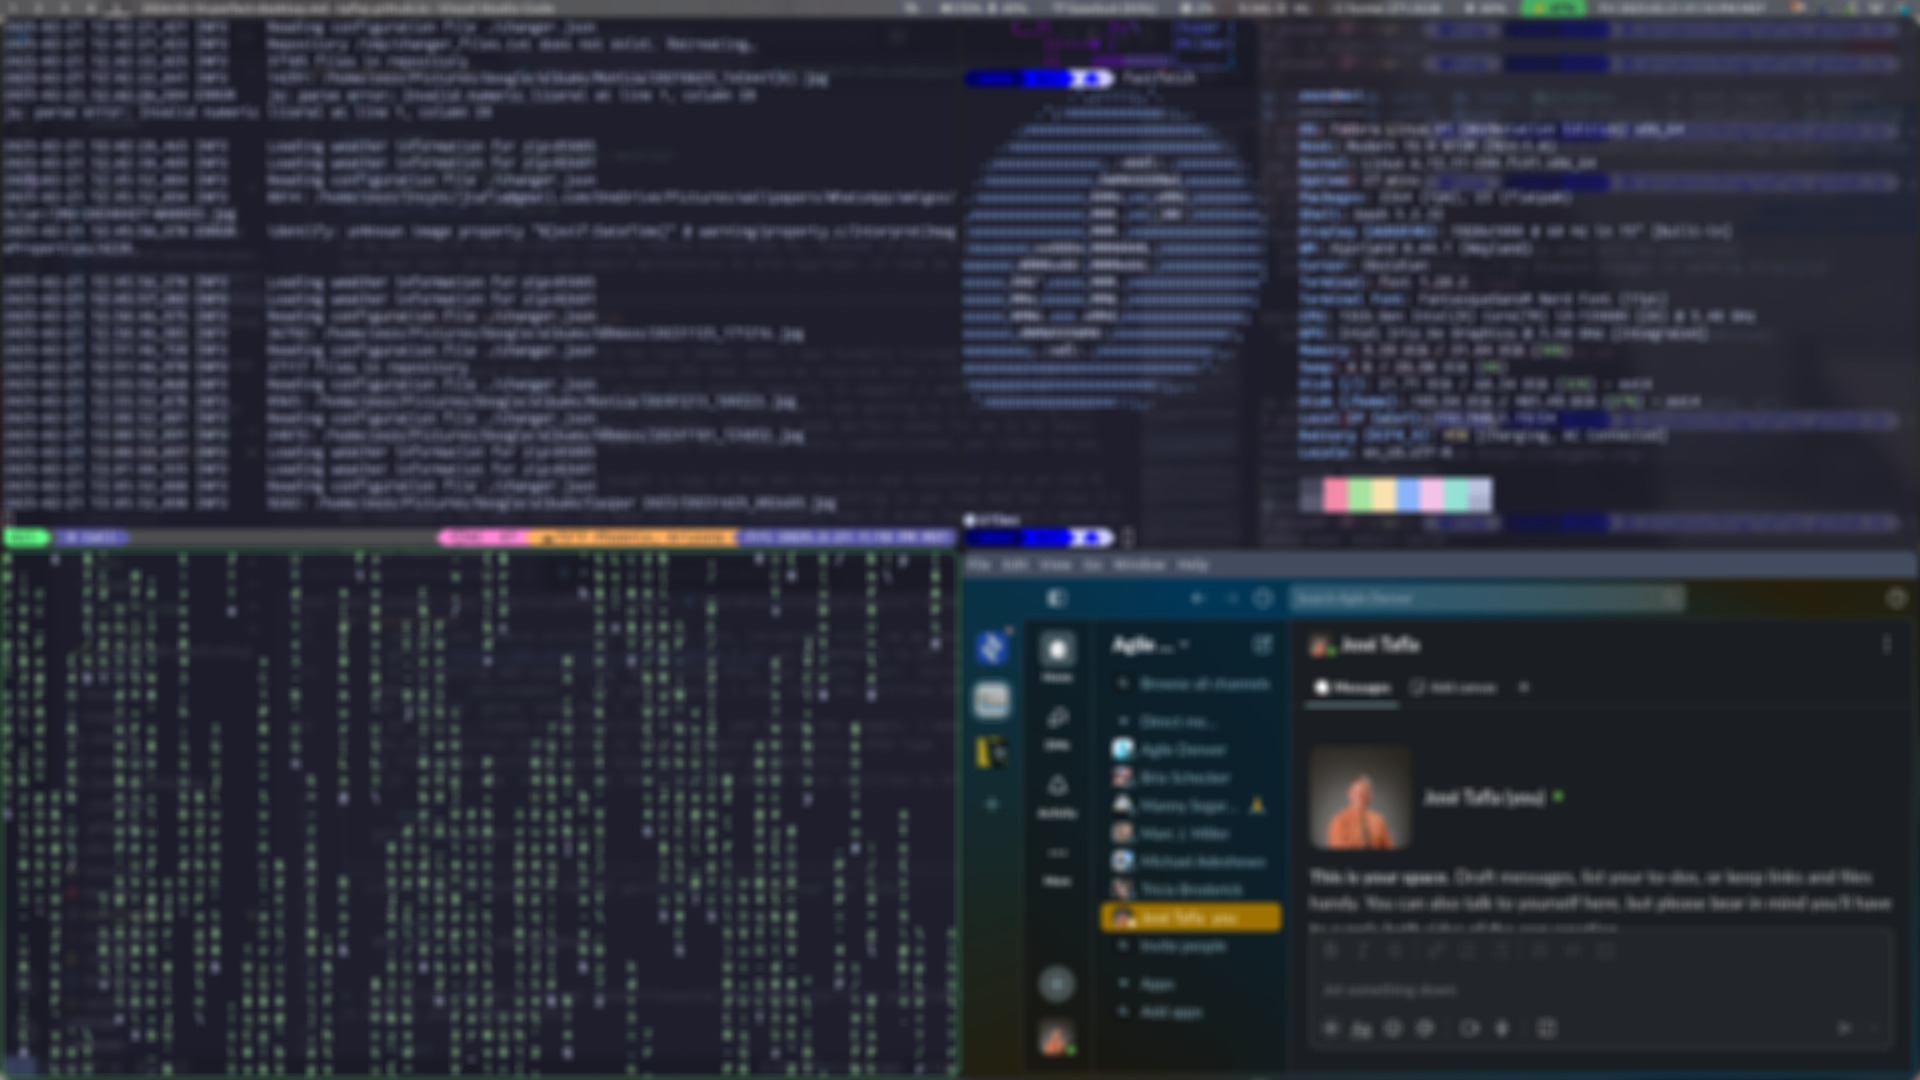
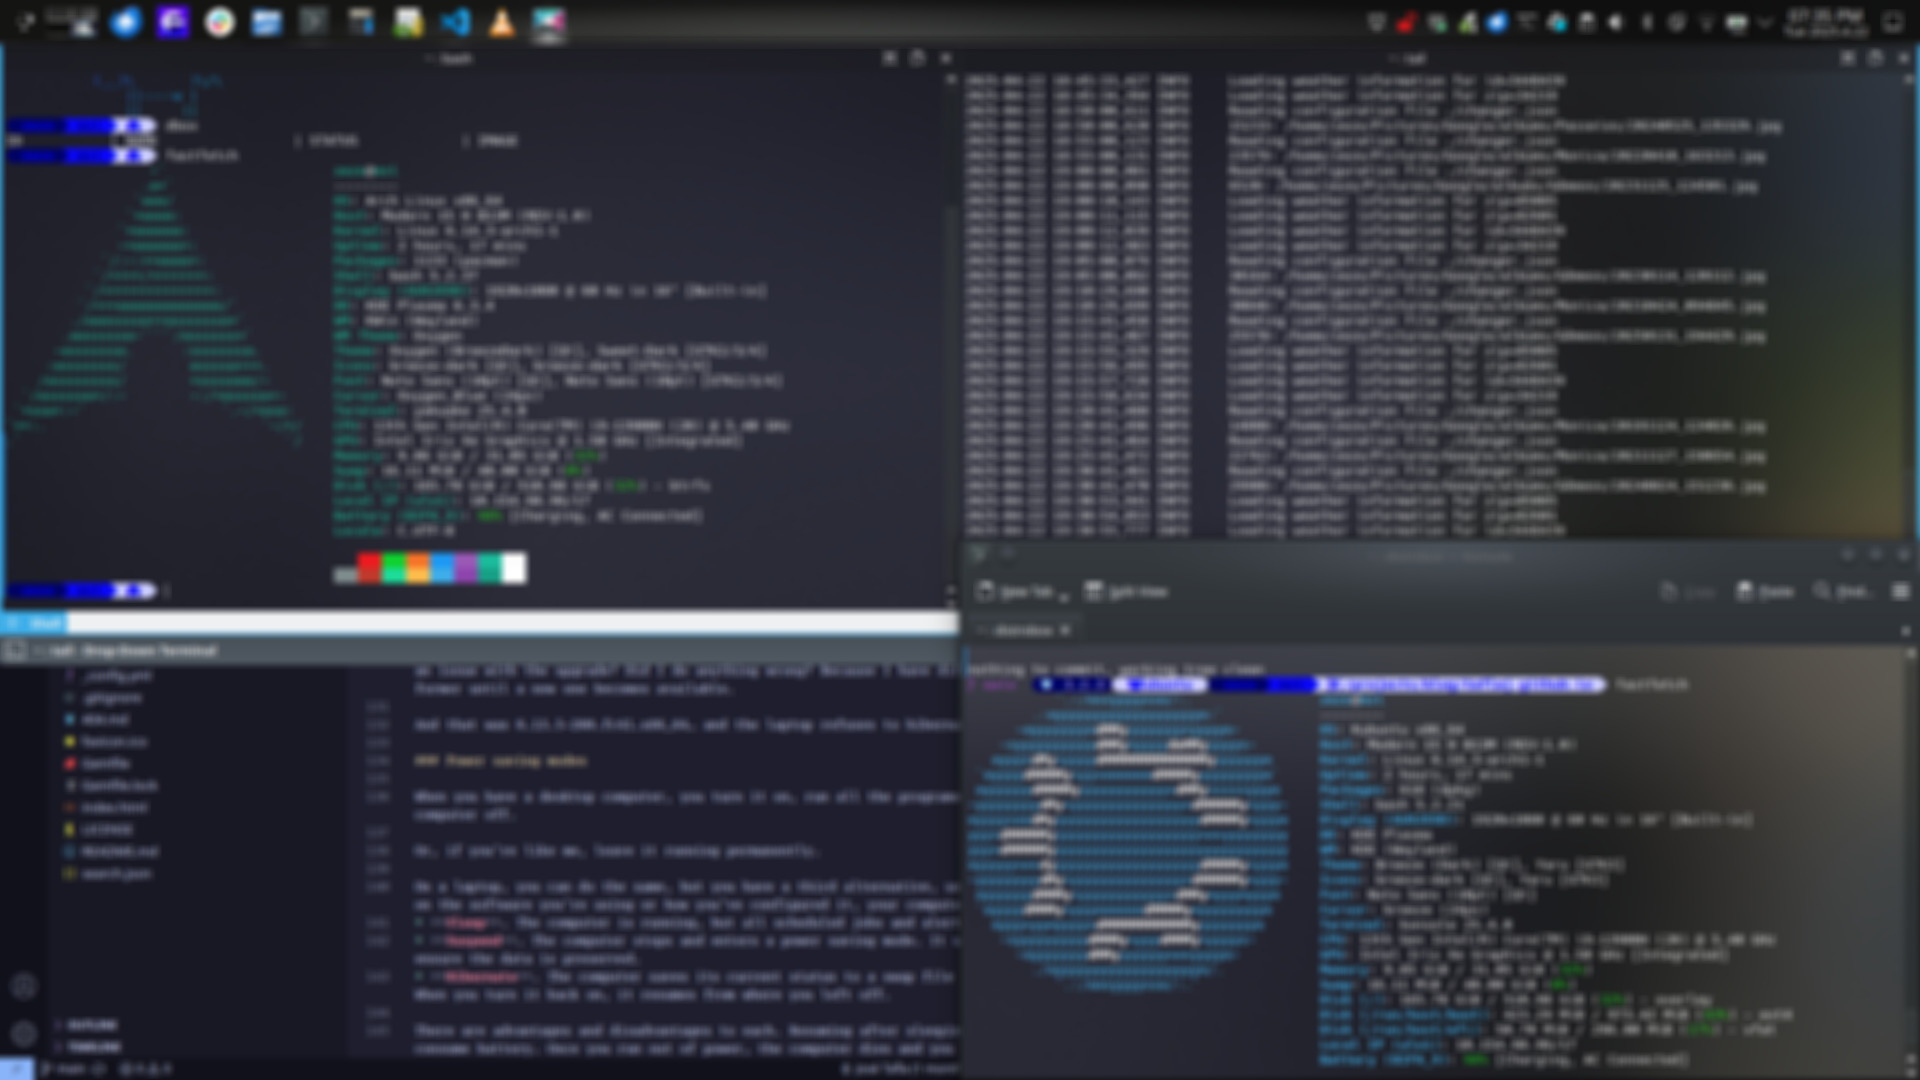
Arch (by the way), fixes, and improvements.

diff --git a/_posts/2024-05-10-perfect-desktop.md b/_posts/2024-05-10-perfect-desktop.md
@@ -3,12 +3,12 @@ layout: post
 title:  "The quest for the perfect desktop"
 categories: technology linux
 date: 2024-05-10
-last_modified_at: 2025-03-04
+last_modified_at: 2025-04-23
 excerpt_separator: <!--more-->
 ---
-![My Perfect Desktop](/assets/images/desktop.jpg)
+[![My Perfect Desktop](/assets/images/desktop.jpg)](/perfect-desktop/)
 
-On my desktop PC I'm currently running Fedora Silverblue 41, rebased to Bluefin-DX. On my laptop I have dual boot: Windows 11 and Fedora Workstation 41 with Hyprland. It took me significant time and effort to come here, though.
+On my desktop PC I'm currently running Arch Linux with [MATE Desktop][mate]. On my laptop I have dual boot: Windows 11 and Arch Linux alternating between [KDE Plasma][kde] and [Hyprland][hypr]. It took me significant time and effort to come here, though.
 <!--more-->
 
 ## A very long history in the making
@@ -45,13 +45,13 @@ Red Hat Linux was no more. I could either choose Red Hat Enterprise Linux or [Fe
 
 [Fedora][fedora] was a great fit for me! There were frequent updates, but not overwhelmingly so. In fact, it was the perfect balance between advancements and stability.
 
-When [Red Hat/IBM built a paywall around CentOS Stream][centos], sending shockwaves across the open source industry, I felt inclined to walk away from [Fedora][fedora] and revisit other truly community supported distros. My first stop was with the venerable [Debian][debian]. Version 12 had just been released, with a significant number of improvements, and it looked very appealing to me. By that time, I was already excited, once again, to use GNOME, and so [Debian][debian] became my daily driver. It's heavily stable, which could also mean archaic, and some tools did seem a little outdated. Using [distrobox][dbox], I was able to overcome plenty of limitations.
+When [Red Hat/IBM built a paywall around CentOS Stream][centos], sending shockwaves across the open source industry, I felt inclined to walk away from [Fedora][fedora] and revisit other truly community supported distros. My first stop was with the venerable [Debian][debian]. Version 12 had just been released, with a significant number of improvements, and it looked very appealing to me. By that time, I was already excited, once again, to use GNOME, and so [Debian][debian] became my daily driver. It's heavily stable, which could also mean archaic, and some tools did seem a little outdated. Using [Distrobox][dbox], I was able to overcome plenty of limitations.
 
-The problem with [Debian][debian] is that **I am a bad user**; the same applies to most other distros. Even though [distrobox][dbox] allowed me to safely bypass system limitations by installing programs on a containerized environment, sometimes it just felt *easier* to install on the root system. Over time, there were so many broken dependencies on the system that updates and new installations became rather painful. Backup tools such as [Snapper][snapper] and [Timeshift][timeshift] are fantastic for restoring configurations, but only for a short period of time; restoring a rather old configuration is impractical. The only reasonable approach was to reinstall the system from scratch and to remember to be disciplined.
+The problem with [Debian][debian] is that **I am a bad user**; the same applies to most other distros. Even though [Distrobox][dbox] allowed me to safely bypass system limitations by installing programs on a containerized environment, sometimes it just felt *easier* to install on the root system. Over time, there were so many broken dependencies on the system that updates and new installations became rather painful. Backup tools such as [Snapper][snapper] and [Timeshift][timeshift] are fantastic for restoring configurations, but only for a short period of time; restoring a rather old configuration is impractical. The only reasonable approach was to reinstall the system from scratch and to remember to be disciplined.
 
 But if I had to start from scratch, I'd rather do something new. In comes [Arch Linux][arch]. Not a descendant, but the real thing. Installation was flawless, thanks to [Stephen's Tech Talks][stt] [example][guide], and in no time I had my desktop up and running. A few weeks later, after assuring myself of the system's stability, I proceeded to install [Arch Linux][arch] on my laptop.
 
-And then the problems began. Some tools I use were crashing. I tried both the AUR and the Flatpak versions, and got the same result. Did I make a mistake during the installation? Maybe… Let's try a descendant. [EndeavourOS][endeavouros], [ArcoLinux][arco], and [Garuda Linux][garuda] all yielded the very same result. It tells me the problem is inside [Arch Linux][arch]. Searching the forums did not give me any good answers. In any event, everything else was working, so for the next few weeks I'd work around these annoyances. I also kept any and all updates on the desktop on hold because I knew that eventually it would crash as well.
+<a id="past"></a>And then the problems began. Some tools I use were crashing. I tried both the AUR and the Flatpak versions, and got the same result. Did I make a mistake during the installation? Maybe… Let's try a descendant. [EndeavourOS][endeavouros], [ArcoLinux][arco], and [Garuda Linux][garuda] all yielded the very same result. It tells me the problem is inside [Arch Linux][arch]. Searching the forums did not give me any good answers. In any event, everything else was working, so for the next few weeks I'd work around these annoyances. I also kept any and all updates on the desktop on hold because I knew that eventually it would crash as well.
 
 I couldn't wait long, though. It became necessary to install a new application on the desktop, but the installer required a full system update. I crossed my fingers and went on with it. The behavior of the faulty tools improved and weren't crashing, which gave me some hope. Back on the laptop, I performed a new full system update and tried, once again, to install those tools. Most of them worked, except for one (obviously the most critical one).
 
@@ -101,7 +101,7 @@ What about applications that aren't available as flatpaks? The solution Fedora u
 
 ### Hyprland
 
-For the end user, one major difference between Linux and Windows is that, on the latter, you're stuck with whatever Microsoft throws at you, while on the former you get to decide what the screen looks like. Among Linux users there is a constant debate on the best desktop environment. Some prefer GNONE, others prefer KDE/Plasma, not to mention Budgie and Xfce (and so many others).
+For the end user, one major difference between Linux and Windows is that, on the latter, you're stuck with whatever Microsoft throws at you, while on the former you get to decide what the screen looks like. Among Linux users there is a constant debate on the best desktop environment. Some prefer GNOME, others prefer KDE/Plasma, not to mention Budgie and Xfce (and so many others).
 
 And then there are window managers, which are part of the desktop environment. There is an endless list. One particular kind are tiling managers, in which each new window takes all the space available on the screen, generally negotiating space with the other windows. The debate about the best window managers is also endless. At the end of the day, it comes down to: which one do you like the most?
 
@@ -158,7 +158,29 @@ As of the time of this writing, there is none. It is a known issue, but they hav
 
 I wonder if [Arch Linux][arch] still supports hibernation? More to come on this.
 
-<!-- Indeed, I'm happy to report that my computers are working exactly the way I want them. -->
+## 23 April 2025
+
+I saw [Cody Hou](https://www.codyhou.com/)'s post about [Arch Linux installation](https://www.codyhou.com/arch-encrypt-swap/) and decided to give it another try. Along with other sources I saw online, my goal was to install Arch with BTRFS, encryption, swap, snapshots, Snapper (instead of TimeShift), and dual boot. Did I mention hibernation?
+
+My 12 year old faithful desktop with 4th Gen Intel i7-4770 3.90 GHz and 16GB RAM is too weak for fancy desktop environments. Tiling window managers are great for laptops, but not necessarily for desktops (just my opinion), so I opted for [MATE Desktop][mate]. There's a familiar look and feel to it, which would make it easy for my wife to navigate it when needed, and it performs very well in spite of the heavy burden I lay on it.
+
+### A ghost from the past
+
+As for my laptop, the [problem I had in the past](#past "apps keep crashing") had to do with Dropbox. It uses the system tray for configuration and status indication, but GNOME had disabled it in the past. Extensions like [AppIndicator and KStatusNotifierItem](https://extensions.gnome.org/extension/615/appindicator-support/) fill in the gap… but only to an extent. Particularly with GNOME 48, I had to rely on [Status Icons](https://extensions.gnome.org/extension/7332/status-icons/), but it wasn't good enough either. The computer would crash as soon as Dropbox starts running. With some effort, I could have the computer ressuscitate after the crash, but the indicator was not present. How could I be sure it was running at all? What about alerts?
+
+Fortunately for me, Dropbox ran flawlessly with Hyprland. Same with MATE. Problem solved.
+
+### A ghost from the present
+
+For my professional and volunteer work, I use Zoom with different accounts. Switching between them on Hyprland was making it crash. A solution I found was to replace GNOME with KDE Plasma. Dropbox and Zoom are running perfectly, as well as some of the other critical tools and applications I need. I do miss the Hyprland navigation, but I can switch to it any time without issues.
+
+### Weird screenshot
+
+Did you find anything unusual about the picture on the top of this page? On the top left quadrant we see [fastfetch][fastfetch] reporting Arch Linux, but on the bottom right it shows [Kubuntu][kubuntu]. How's that possible? Let me assure you: for this screenshot, I did not remote into another computer; it was all local.
+
+The trick is that, as I had mentioned so many times, I'm a bad user. I don't want to overload my computer with tools I use sporadically, such as Ruby and Jekyll for maintaining this blog. It would add unwanted burden to the frequent upgrades. To solve this, I'm using [Distrobox][dbox]. I created an Ubuntu container and loaded it with the necessary tools. Any system upgrades won't affect the container, and I can upgrade the container whenever needed without affecting the computer as a whole.
+
+Indeed, I'm happy to report that my computers are working exactly the way I want them.
 
 [alma]: https://almalinux.org/
 [arch]: https://archlinux.org/
@@ -173,14 +195,17 @@ I wonder if [Arch Linux][arch] still supports hibernation? More to come on this.
 [debian]: https://www.debian.org/
 [distrowatch]: https://distrowatch.com/
 [endeavouros]: https://endeavouros.com/
+[fastfetch]: https://github.com/fastfetch-cli/fastfetch
 [fedora]: https://fedoraproject.org/
 [garuda]: https://garudalinux.org/
 [guide]: https://www.youtube.com/watch?v=zQQN3Pj4K0Y
 [hypr]: https://hyprland.org/
 [i3wm]: https://i3wm.org/
 [immutable]: https://distrowatch.com/search.php?category=Immutable#simple
+[kde]: https://kde.org/
 [kubuntu]: https://kubuntu.org/
 [manjaro]: https://manjaro.org/
+[mate]: https://mate-desktop.org/
 [microos]: https://microos.opensuse.org/
 [mint]: https://www.linuxmint.com/
 [mx]: https://mxlinux.org/
@@ -204,3 +229,4 @@ I wonder if [Arch Linux][arch] still supports hibernation? More to come on this.
 1. 2025-02-06: Issues with an update; upgrading to F41; rebasing to Bluefin-DX; new laptop with dual boot.
 1. 2025-02-20: Cosmetic details.
 1. 2025-03-04: Fedora is no longer hibernating.
+1. 2025-04-23: Arch (by the way).
